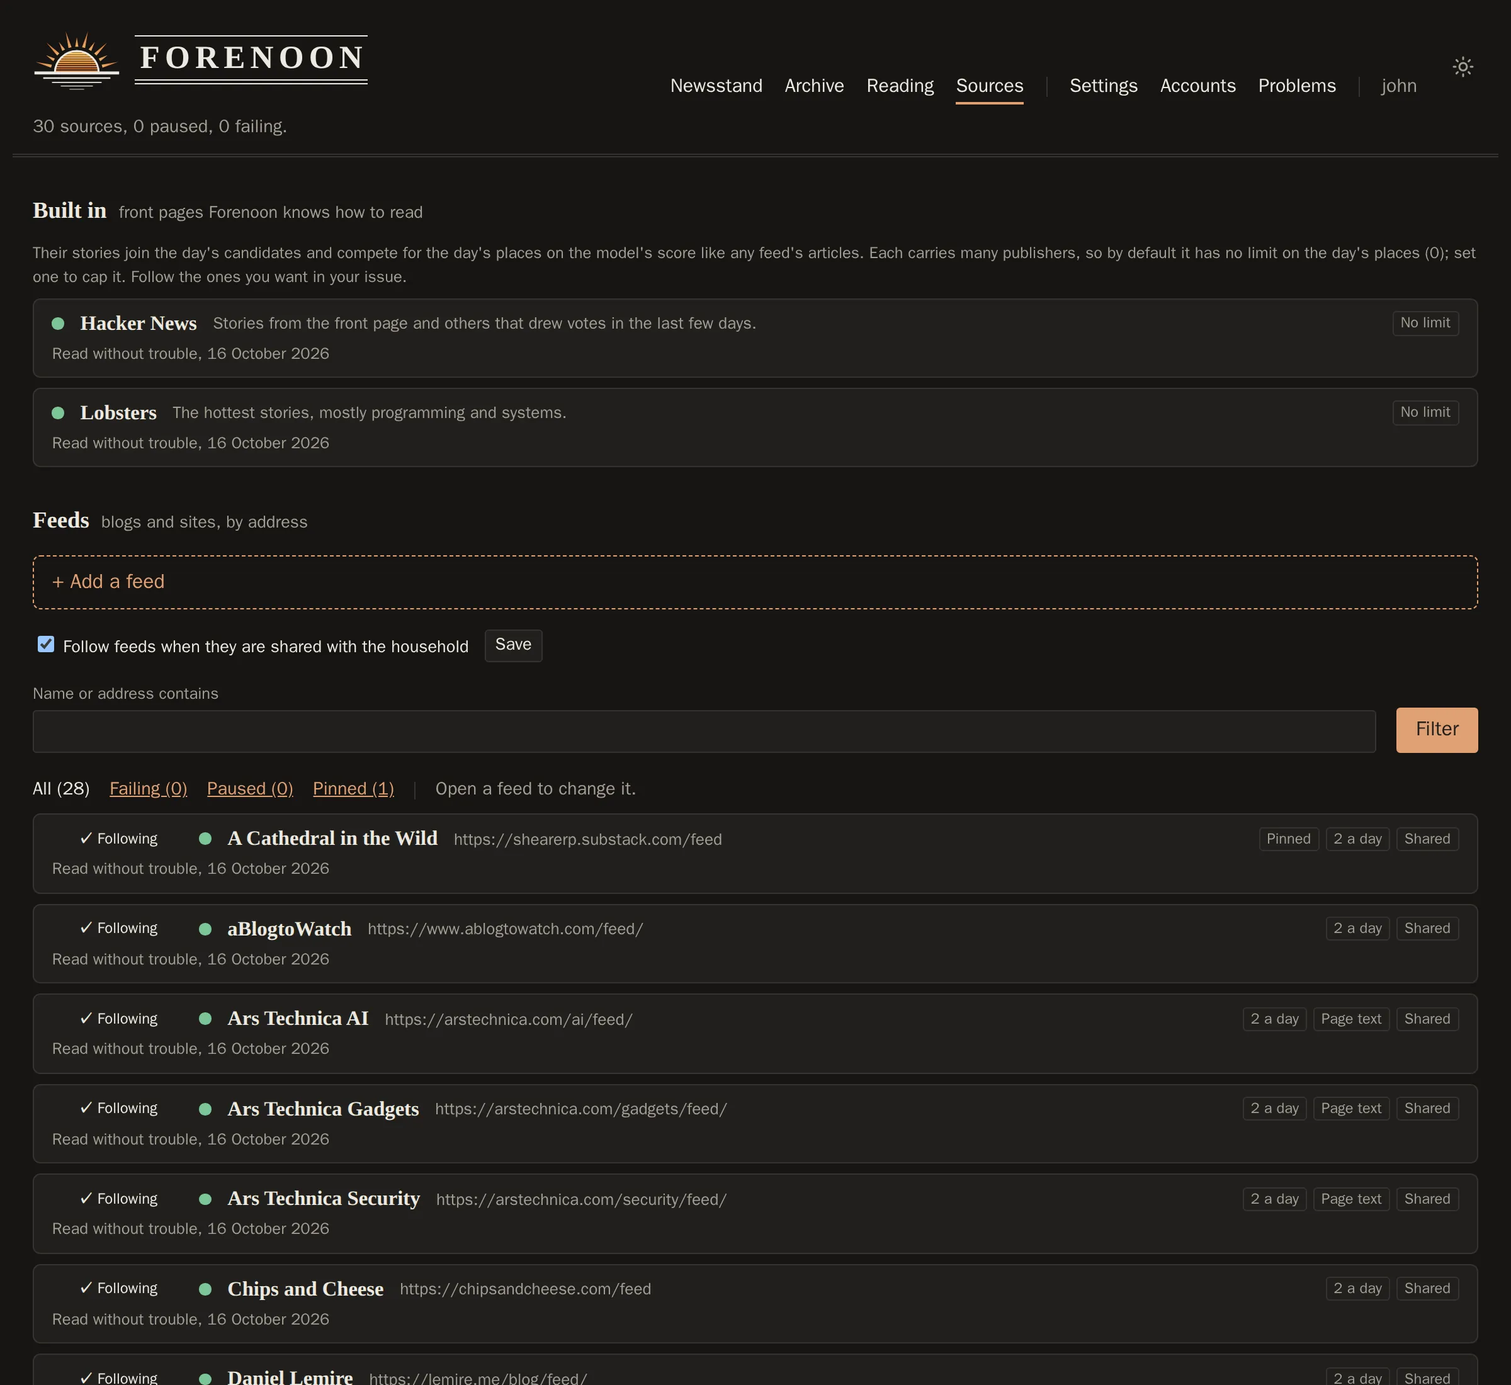
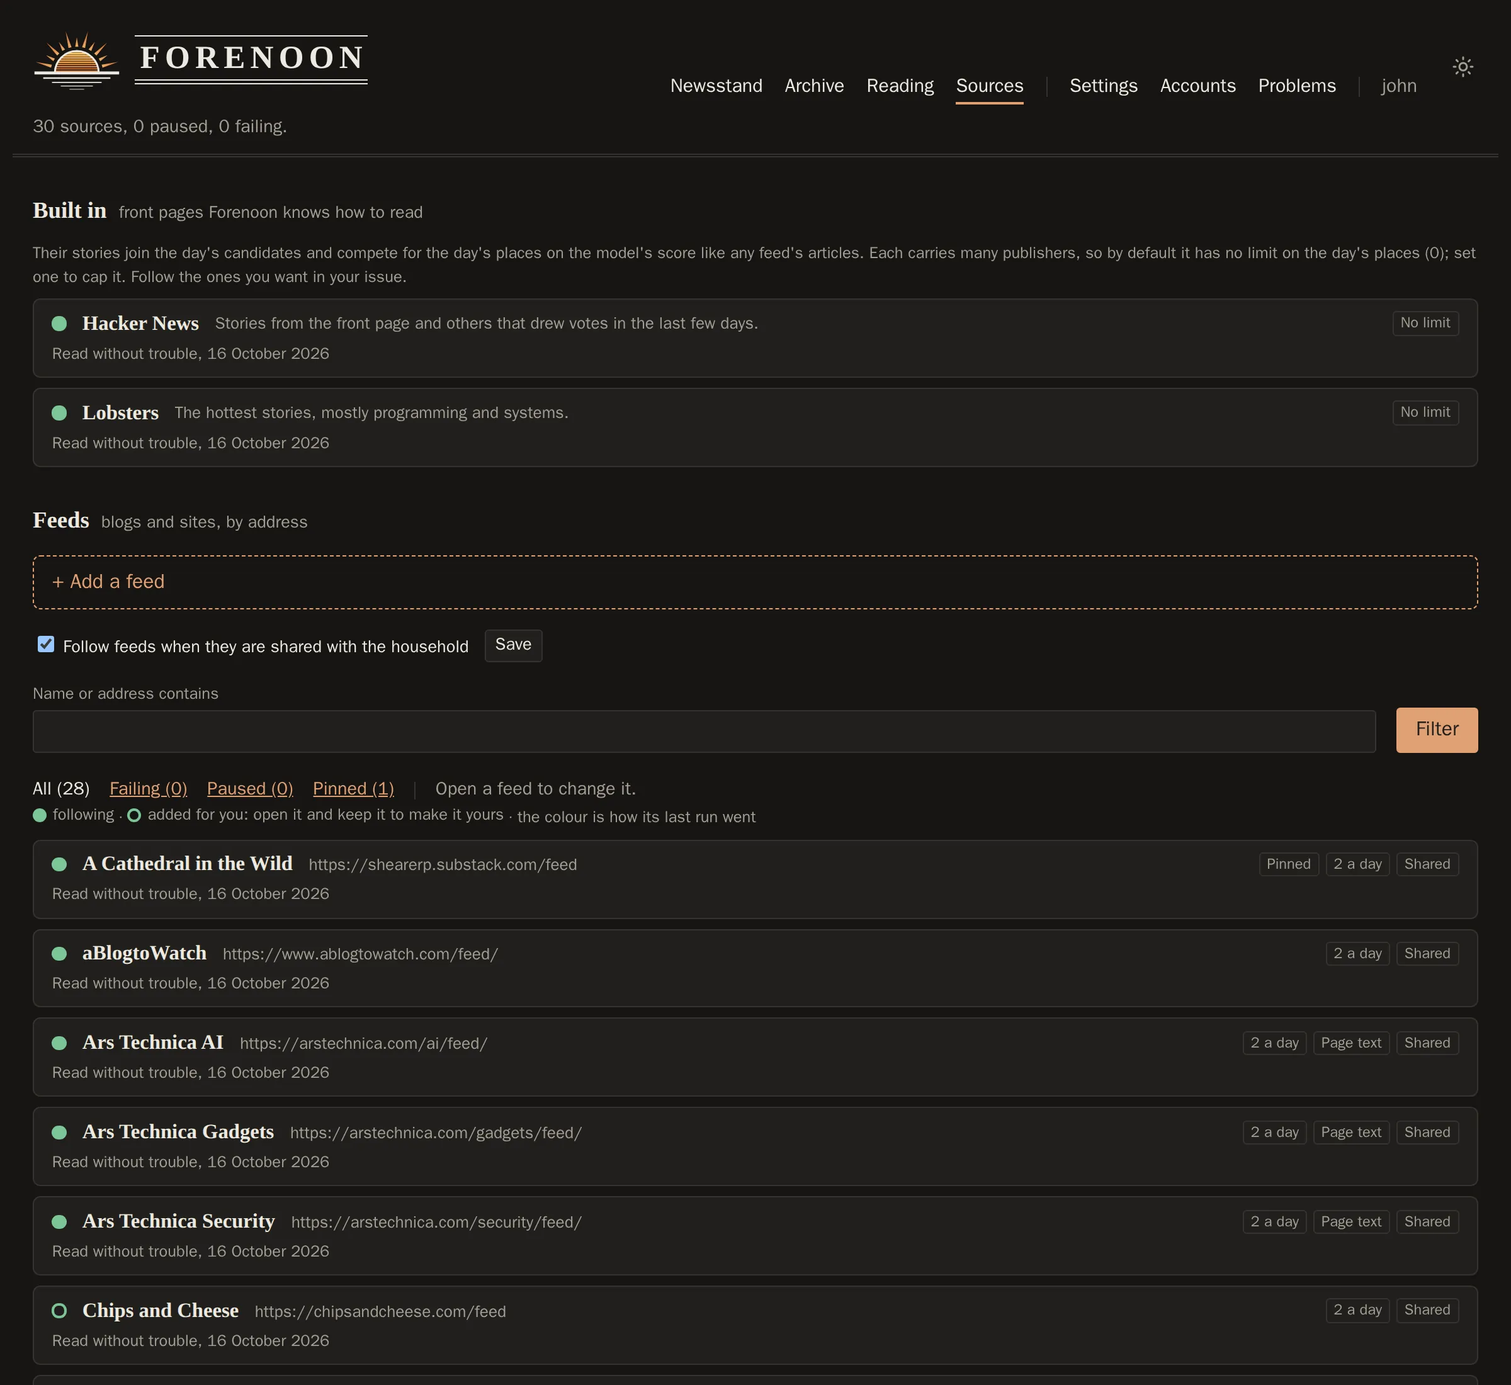
Show how a feed is followed by its dot's shape, and refusals from the page as errors on it
The "✓ Following" / "Added for you" column is gone: a feed's dot is filled when the reader
chose it and a ring when it was followed for them, its colour still how the last run went, and
a tooltip on every source's dot says both. A feed not followed has "+ Follow" in place of its
dot; "Keep it" moved into the opened row. A key above the list explains the shapes.

Removing a feed someone else chose, changing one from a page loaded before they did, or
removing someone else's session showed a bare error page; now the Sources page again, with
why at the top.

diff --git a/web/templates/_feed.html b/web/templates/_feed.html
@@ -1,5 +1,5 @@
 <details class="row{% if !row.enabled %} paused{% endif %}{% if !row.followed %} unfollowed{% endif %}" id="s-{{ row.id }}"{% if row.open %} open{% endif %}>
-<summary>{% if row.follow == "chosen" %}<span class="follow chosen" title="You follow it. Unfollow it in its settings.">✓ Following</span>{% else %}<form class="follow" method="post" action="/sources/{{ row.id }}/follow"><input type="hidden" name="csrf" value="{{ csrf }}"><button class="follow {{ row.follow }}" name="follow" value="1"{% if row.follow == "made" %} title="Followed for you when it was shared. Click to keep it: a feed you follow is not removed under you.">Added for you{% else %} title="Get its articles in your issue">+ Follow{% endif %}</button></form>{% endif %}<span class="dot {{ row.state }}" aria-hidden="true"></span><span class="name">{{ row.name }}</span><span class="addr">{{ row.address }}</span>
+<summary>{% if row.follow == "none" %}<form class="follow" method="post" action="/sources/{{ row.id }}/follow"><input type="hidden" name="csrf" value="{{ csrf }}"><button class="follow none" name="follow" value="1" title="Get its articles in your issue">+ Follow</button></form>{% else %}<span class="dot {{ row.state }}{% if row.follow == "made" %} ring{% endif %}" role="img" title="{{ row.dot }}" aria-label="{{ row.dot }}"></span>{% endif %}<span class="name">{{ row.name }}</span><span class="addr">{{ row.address }}</span>
 <span class="tags">{% if row.new %}<span class="tag">Just added</span>{% endif %}{% if row.fresh %}<span class="tag new" title="Shared with the household in the last two weeks">New</span>{% endif %}{% if row.followed && row.pinned %}<span class="tag" title="All its articles are taken, before all others">Pinned</span>{% endif %}{% if !row.enabled %}<span class="tag" title="Not fetched until it is resumed">Paused</span>{% endif %}<span class="tag" title="The most of an issue it may take">{{ row.limit }}</span>{% if !row.mode.0.is_empty() %}<span class="tag" title="{{ row.mode.1 }}">{{ row.mode.0 }}</span>{% endif %}{% if row.shared %}<span class="tag" title="Shared with the household: any reader can follow it">Shared</span>{% else %}<span class="tag" title="Only the reader who added it sees it, until they share it">Private{% if !row.added_by.is_empty() %}: {{ row.added_by }}{% endif %}</span>{% endif %}{% if let Some(site) = row.session %}<span class="tag" title="Its articles are fetched with the {{ site }} subscriber session">{{ site }} session</span>{% endif %}</span>
 {% if let Some(check) = row.check %}<p class="state{% if row.check_failed %} failing{% endif %}">{{ check }}</p>{% endif %}
 <p class="state{% if row.failing %} failing{% endif %}">{% if let Some(status) = row.status %}{{ status }}{% else %}Not read yet.{% endif %}{% if !row.enabled %} Paused.{% endif %}</p>
@@ -17,6 +17,7 @@
 {% if row.can_edit && admin %}<label class="tick"><input type="checkbox" name="enabled" value="1"{% if row.enabled %} checked{% endif %}> Fetch it for the household (untick to pause)</label>{% endif %}
 {% if row.can_share %}<label class="tick"><input type="checkbox" name="shared" value="1"{% if row.shared %} checked{% endif %}> Shared with the household</label>{% endif %}
 {% if row.can_edit || row.followed || row.can_share %}<button class="primary">Save</button>{% endif %}
+{% if row.follow == "made" %}<button name="follow" value="1" formaction="/sources/{{ row.id }}/follow" title="Make it your choice: a feed you chose is not removed under you">Keep it</button>{% endif %}
 {% if row.followed %}<button name="follow" value="0" formaction="/sources/{{ row.id }}/follow">Unfollow</button>{% endif %}
 {% if row.can_remove %}<button class="link" formaction="/sources/{{ row.id }}/delete">Remove</button>{% endif %}
 </div>

diff --git a/web/templates/base.html b/web/templates/base.html
@@ -213,13 +213,10 @@ details.row[open] > summary { border-bottom:1px solid var(--line) }
 details.row > form, details.row > div { padding:.8rem .9rem }
 details.row.paused > summary { opacity:.6 }
 details.row.unfollowed > summary .name { color:var(--soft) }
-/* The follow state before a feed's name: a button to follow, a faint one for a follow made for
-   the reader, plain text once they chose it. Pressing the button does not open the row. */
+/* A feed this reader does not follow starts with a button to follow it, in place of its dot. */
 details.row > summary form.follow { margin:0 }
-.follow { font-size:.75rem; min-width:6.5rem; text-align:center; padding:.1rem .45rem; border-radius:3px }
+.follow { font-size:.75rem; padding:.1rem .45rem; border-radius:3px }
 button.follow.none { border:1.5px solid var(--accent); color:var(--accent); font-weight:600 }
-button.follow.made { border:1px dashed var(--line); color:var(--soft) }
-span.follow.chosen { color:var(--ink); font-weight:600 }
 .tag.new { border-color:var(--accent); color:var(--accent) }
 form.switch { display:flex; flex-wrap:wrap; gap:.4rem .8rem; align-items:center; margin:.6rem 0; font-size:.85rem }
 details.row .name { font:700 1.02rem Georgia,serif }
@@ -227,11 +224,15 @@ details.row .addr { color:var(--soft); font-size:.82rem; min-width:0; max-width:
   text-overflow:ellipsis; white-space:nowrap }
 details.row .tags { margin-left:auto; display:flex; flex-wrap:wrap; gap:.3rem; font-size:.74rem; color:var(--soft) }
 details.row .state { flex-basis:100%; margin:0; font-size:.8rem; color:var(--soft) }
-.dot { flex:none; width:.6rem; height:.6rem; border-radius:50%; background:var(--ok) }
-.dot.bad { background:var(--bad) }
-.dot.wait { background:var(--warn) }
-.dot.off { background:var(--line) }
-.dot.none { background:none; border:1px solid var(--line) }
+/* A source's dot: its colour is how its last run went, its shape whether this reader follows it
+   by choice (filled) or had it followed for them (a ring). Its tooltip says both. */
+.dot { flex:none; width:.7rem; height:.7rem; border-radius:50%; color:var(--ok); background:currentColor }
+.dot.bad { color:var(--bad) }
+.dot.wait { color:var(--warn) }
+.dot.off { color:var(--line) }
+.dot.none { color:var(--soft); opacity:.45 }
+.dot.ring { background:none; box-shadow:inset 0 0 0 2px currentColor }
+.key { display:inline-flex; align-items:center; gap:.3rem }
 form.settings label.tick, form.sheet label.tick { flex-direction:row; align-items:center; gap:.45rem }
 form.settings h2 { margin-top:1.2rem }
 form.settings select { padding:.45rem .55rem }

diff --git a/web/templates/sources.html b/web/templates/sources.html
@@ -12,7 +12,7 @@
 <p class="hint">Their stories join the day's candidates and compete for the day's places on the model's score like any feed's articles. Each carries many publishers, so by default it has no limit on the day's places (0){% if admin %}; set one to cap it{% endif %}. Follow the ones you want in your issue.</p>
 {% for row in builtins %}
 <details class="row{% if !row.enabled %} paused{% endif %}{% if !row.followed %} unfollowed{% endif %}">
-<summary><span class="dot {{ row.state }}" aria-hidden="true"></span><span class="name">{{ row.name }}</span><span class="addr">{{ row.about }}</span>
+<summary><span class="dot {{ row.state }}" role="img" title="{{ row.dot }}" aria-label="{{ row.dot }}"></span><span class="name">{{ row.name }}</span><span class="addr">{{ row.about }}</span>
 <span class="tags">{% if !row.followed %}<span class="tag">Not followed</span>{% endif %}{% if !row.enabled %}<span class="tag">Off</span>{% endif %}<span class="tag">{{ row.limit }}</span></span>
 <p class="state{% if row.failing && row.enabled %} failing{% endif %}">{% if !row.enabled %}Off for everyone.{% else if let Some(status) = row.status %}{{ status }}{% else %}Not read yet.{% endif %}</p>
 </summary>
@@ -66,6 +66,7 @@
 <div class="views">
 {% for view in views %}{% if view.current %}<b>{{ view.label }} ({{ view.count }})</b>{% else %}<a href="{{ view.href }}">{{ view.label }} ({{ view.count }})</a>{% endif %}
 {% endfor %}<span class="sep"></span> <span>Open a feed to change it.</span></div>
+<p class="hint"><span class="key"><span class="dot" aria-hidden="true"></span> following</span> · <span class="key"><span class="dot ring" aria-hidden="true"></span> added for you: open it and keep it to make it yours</span> · the colour is how its last run went</p>
 {% endif %}
 {% if total == 0 %}<p class="empty">No feeds yet.</p>
 {% else if attention.is_empty() && feeds.is_empty() && available.is_empty() %}<p class="empty">No feeds match.</p>{% endif %}

diff --git a/web/src/sources.rs b/web/src/sources.rs
@@ -230,6 +230,8 @@ struct BuiltinRow {
     failing: bool,
     /// The colour of the dot before its name: ok, bad, wait, off or none.
     state: &'static str,
+    /// The dot's tooltip.
+    dot: String,
 }
 
 struct FeedRow {
@@ -243,9 +245,12 @@ struct FeedRow {
     /// This reader follows it, and pinned it.
     followed: bool,
     pinned: bool,
-    /// The button before its name: "none" (not followed), "made" (followed for them when it was
-    /// shared, or when their account was made) or "chosen".
+    /// How this reader follows it: "none" (a button to follow it stands for its dot), "made"
+    /// (followed for them when it was shared or their account was made: a ring) or "chosen"
+    /// (a filled dot).
     follow: &'static str,
+    /// The dot's tooltip: how it is followed and how its last run went.
+    dot: String,
     shared: bool,
     /// Shared lately and not followed by this reader: marked new.
     fresh: bool,
@@ -322,6 +327,22 @@ struct SourcesPage {
     notice: Option<&'static str>,
     /// An address is still being checked: the page reloads itself until it is done.
     checking: bool,
+}
+
+/// What a source's dot says, as its tooltip: how this reader follows it, and how its last run went.
+fn dot(follow: &str, state: &str, problem: Option<&str>, status: Option<&str>) -> String {
+    let follow = match follow {
+        "chosen" => "Following",
+        "made" => "Added for you: open it and keep it to make it yours",
+        _ => "Not followed",
+    };
+    let health = match state {
+        "off" => "Paused",
+        "wait" => "Its address is being checked",
+        "none" => "Not read yet",
+        _ => problem.or(status).unwrap_or("Not read yet"),
+    };
+    format!("{follow}. {health}.")
 }
 
 fn limit(daily_max: i64) -> String {
@@ -438,6 +459,7 @@ async fn render(
                 limit: limit(source.daily_max),
                 enabled: source.enabled,
                 followed: source.followed,
+                dot: dot(if source.followed { "chosen" } else { "none" }, state, None, status.as_deref()),
                 status,
                 failing,
                 state,
@@ -449,8 +471,22 @@ async fn render(
                 if source.followed {
                     own_sites.extend(covered.clone());
                 }
+                let follow = match (source.followed, source.chosen) {
+                    (false, _) => "none",
+                    (true, false) => "made",
+                    (true, true) => "chosen",
+                };
+                let shown = match state {
+                    "off" => "off",
+                    _ if check_failed => "bad",
+                    _ if checking => "wait",
+                    state => state,
+                };
+                let problem = check_failed.then_some(source.check_note.as_str());
                 feeds.push(FeedRow {
                     id: source.id,
+                    dot: dot(follow, shown, problem, status.as_deref()),
+                    follow,
                     // Said only where the reader sees the session itself: on feeds they follow.
                     session: if admin || source.followed { covered } else { None },
                     new: sieve.new == Some(source.id),
@@ -465,11 +501,6 @@ async fn render(
                     },
                     followed: source.followed,
                     pinned: source.pinned,
-                    follow: match (source.followed, source.chosen) {
-                        (false, _) => "none",
-                        (true, false) => "made",
-                        (true, true) => "chosen",
-                    },
                     shared: source.shared,
                     fresh: source.shared
                         && !source.followed
@@ -487,12 +518,7 @@ async fn render(
                     limit: limit(source.daily_max),
                     enabled: source.enabled,
                     attention: source.enabled && (failing || check_failed) && (admin || source.followed),
-                    state: match state {
-                        "off" => "off",
-                        _ if check_failed => "bad",
-                        _ if checking => "wait",
-                        state => state,
-                    },
+                    state: shown,
                     failing,
                     status,
                     check: match source.check_state.as_str() {
@@ -582,6 +608,16 @@ const ADMINS_ONLY: &str = "That is for an admin.";
 const FRESH_DAYS: i64 = 14;
 const NOT_YOURS: &str = "That source is not yours to change.";
 const NO_SUCH: &str = "No such source.";
+const KEPT_FOR_EDIT: &str =
+    "Another reader chose to follow this feed, so only an admin changes its address and settings now.";
+const KEPT_FOR_REMOVAL: &str =
+    "Another reader follows this feed, so it is kept. You can unfollow it, or an admin can pause it.";
+
+/// Refused, though asked from the page itself (one loaded before someone else followed the feed,
+/// say): the page again, with why at the top, rather than a bare error.
+async fn kept(state: &AppState, auth: &AuthSession, session: &Session, why: &str) -> Page {
+    render(state, auth, session, StatusCode::FORBIDDEN, Some(why.to_owned()), None, Sieve::all()).await
+}
 
 #[derive(Deserialize)]
 pub struct PageQuery {
@@ -816,10 +852,7 @@ pub async fn update(
         }
         if form.name.is_some() || form.address.is_some() {
             // The page was loaded while the feed was still theirs alone to edit.
-            return refused(
-                StatusCode::FORBIDDEN,
-                "Someone else follows this feed now, so only an admin changes its address and settings. Reload the page.",
-            );
+            return kept(&state, &auth, &session, KEPT_FOR_EDIT).await;
         }
         if source.followed {
             follow(pool, &user.id, id, pinned, pinned).await?;
@@ -984,10 +1017,7 @@ pub async fn delete(
         return refused(StatusCode::NOT_FOUND, NO_SUCH);
     };
     if source.chosen_by_others > 0 {
-        return refused(
-            StatusCode::FORBIDDEN,
-            "Another reader follows this feed, so it is kept. You can unfollow it, or an admin can pause it.",
-        );
+        return kept(&state, &auth, &session, KEPT_FOR_REMOVAL).await;
     }
     if !source.removable_by(&user) {
         return refused(StatusCode::FORBIDDEN, NOT_YOURS);
@@ -1132,10 +1162,13 @@ pub async fn remove_session(
             // Told apart only by a reader who sees the session anyway; to anyone else there
             // is no session to speak of.
             if has_feed_on(&state.pool, &user, &site).await? {
-                return refused(
-                    StatusCode::FORBIDDEN,
+                return kept(
+                    &state,
+                    &auth,
+                    &session,
                     "That session was saved by someone else; an admin can remove it.",
-                );
+                )
+                .await;
             }
             return saved("nosession");
         }

diff --git a/web/tests/web.rs b/web/tests/web.rs
@@ -1099,11 +1099,16 @@ async fn a_follow_made_for_a_reader_holds_nothing_until_they_choose_it() {
     );
     let text = carl.get(&site, "/sources").await.text;
     let row = text.split(&format!(r#"id="s-{id}""#)).nth(1).unwrap().split("</details>").next().unwrap();
-    assert!(row.contains(">New</span>") && row.contains("+ Follow") && !row.contains("Added for you"), "{row}");
+    assert!(
+        row.contains(">New</span>") && row.contains("+ Follow</button>") && !row.contains(r#"class="dot"#),
+        "{row}"
+    );
     assert!(!text.contains(r#"name="follow_new" value="1" checked"#));
     let text = admin.get(&site, "/sources").await.text;
     let row = text.split(&format!(r#"id="s-{id}""#)).nth(1).unwrap().split("</details>").next().unwrap();
-    assert!(row.contains("Added for you") && !row.contains(">New</span>"), "{row}");
+    // A follow made for him: a ring, its tooltip saying so, and Keep it in the opened row.
+    assert!(row.contains(r#" ring" role="img" title="Added for you: open it and keep it to make it yours. "#), "{row}");
+    assert!(row.contains("Keep it</button>") && !row.contains(">New</span>") && !row.contains("+ Follow"), "{row}");
 
     // A follow made for the admin holds nothing: Mary still changes her feed.
     let rename =
@@ -1118,9 +1123,16 @@ async fn a_follow_made_for_a_reader_holds_nothing_until_they_choose_it() {
     assert_eq!(chosen("carl", id).await, Some(true));
     let text = carl.get(&site, "/sources").await.text;
     let row = text.split(&format!(r#"id="s-{id}""#)).nth(1).unwrap().split("</details>").next().unwrap();
-    assert!(row.contains("✓ Following") && !row.contains(">New</span>"), "{row}");
+    assert!(
+        row.contains(r#"role="img" title="Following. "#) && !row.contains(" ring\"") && !row.contains("Keep it"),
+        "{row}"
+    );
     let gone = mary.post(&site, &format!("/sources/{id}/delete"), &[("csrf", &mary_csrf)]).await;
     assert!(gone.status == StatusCode::FORBIDDEN && gone.text.contains("Another reader follows this feed"));
+    assert!(
+        gone.text.contains(r#"<p class="error">"#) && gone.text.contains("Add a feed"),
+        "the page, not a bare error"
+    );
     assert_eq!(mary.post(&site, &format!("/sources/{id}"), &rename).await.status, StatusCode::FORBIDDEN);
     let gone = admin.post(&site, &format!("/sources/{id}/delete"), &[("csrf", &admin_csrf)]).await;
     assert_eq!(gone.status, StatusCode::FORBIDDEN);
@@ -1328,7 +1340,11 @@ async fn a_readers_feed_is_private_until_shared_and_the_household_shares_session
     // A form loaded while the feed was hers alone, sent after someone followed, is refused
     // rather than half-applied.
     let stale = mary.post(&site, &format!("/sources/{}", mine.id), &edit).await;
-    assert!(stale.status == StatusCode::FORBIDDEN && stale.text.contains("Someone else follows this feed now"));
+    assert!(stale.status == StatusCode::FORBIDDEN && stale.text.contains("Another reader chose to follow this feed"));
+    assert!(
+        stale.text.contains(r#"<p class="error">"#) && stale.text.contains("Add a feed"),
+        "the page, not a bare error"
+    );
 
     // A session is the household's: Mary, with a feed on the site, saves it; Carl, following
     // that feed, sees it is there but cannot remove it; an admin can. Nobody without a feed on

diff --git a/docs/PRD.md b/docs/PRD.md
@@ -44,9 +44,10 @@ what its own users configure and delivers only to the addresses its readers have
   shared feed a reader does not follow is tagged New for two weeks after it was shared.
   A new account follows every shared source (`add-user --follow-nothing` for none).
   A follow is **chosen** or **made**: made for the reader (a new account's, or a feed being
-  shared) until they click its "Added for you" button, follow it by its address, or pin it;
-  chosen from then on, and when they follow it themselves. Each feed row starts with that
-  state: "+ Follow", "Added for you" or "✓ Following"; unfollowing is in the opened row.
+  shared) until they press "Keep it" in its opened row, follow it by its address, or pin it;
+  chosen from then on, and when they follow it themselves. A feed row's dot shows it: filled
+  for chosen, a ring for made, and a "+ Follow" button in its place for a feed the reader
+  does not follow; a key above the list says so. Unfollowing is in the opened row.
   Follows from before this distinction count as chosen. A feed
   added by an address the reader can already see (shared, their own or followed; case, the
   scheme, `www.` and a trailing slash aside) is followed, not added again. Another reader's
@@ -66,7 +67,8 @@ what its own users configure and delivers only to the addresses its readers have
 
   Sources come in two kinds, each with its own section on the web pages' Sources page,
   which also shows how each source's last runs went. A source is one compact row (a
-  coloured dot for its state, name, address, and tags for new, pinned, paused,
+  dot, its colour how the source's last run went and its shape how the reader follows it,
+  with both in its tooltip; name, address, and tags for new, pinned, paused,
   places a day, where its text comes from, and shared or private, with the adder's name
   for an admin), opened to change it; feeds that are failing or whose address could not be
   checked are listed first under "Needs attention" (for a reader, only the ones they
